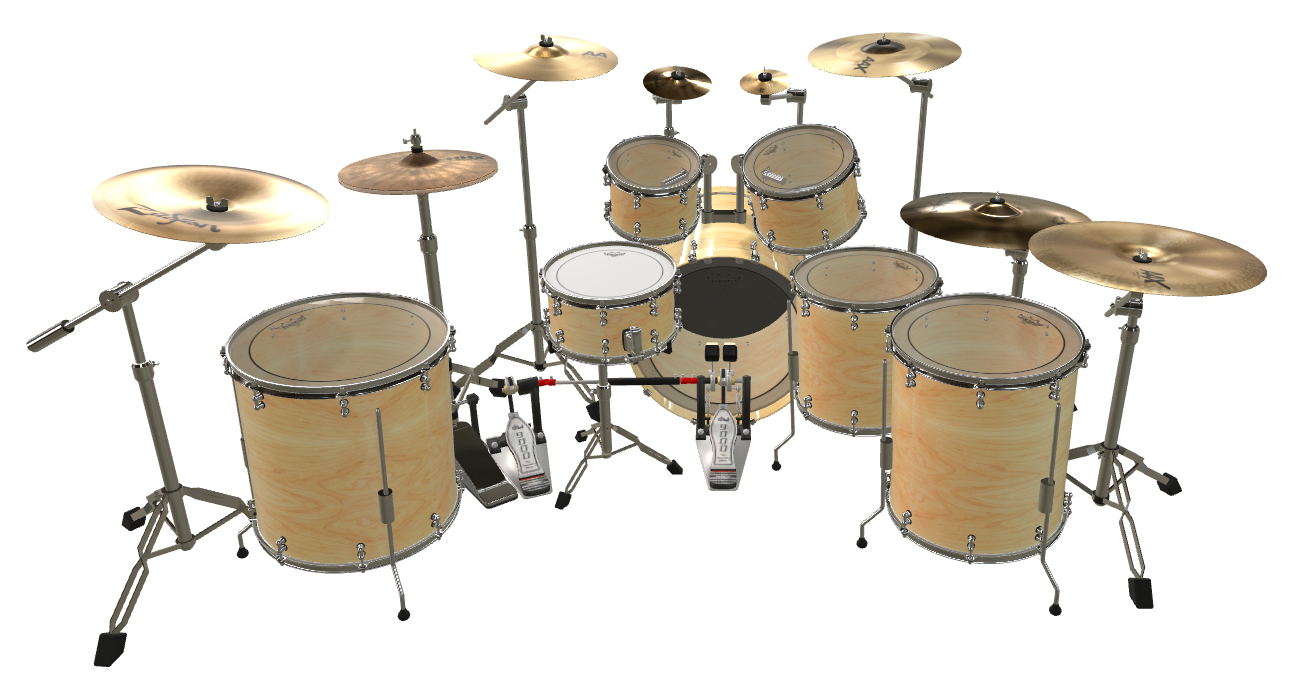
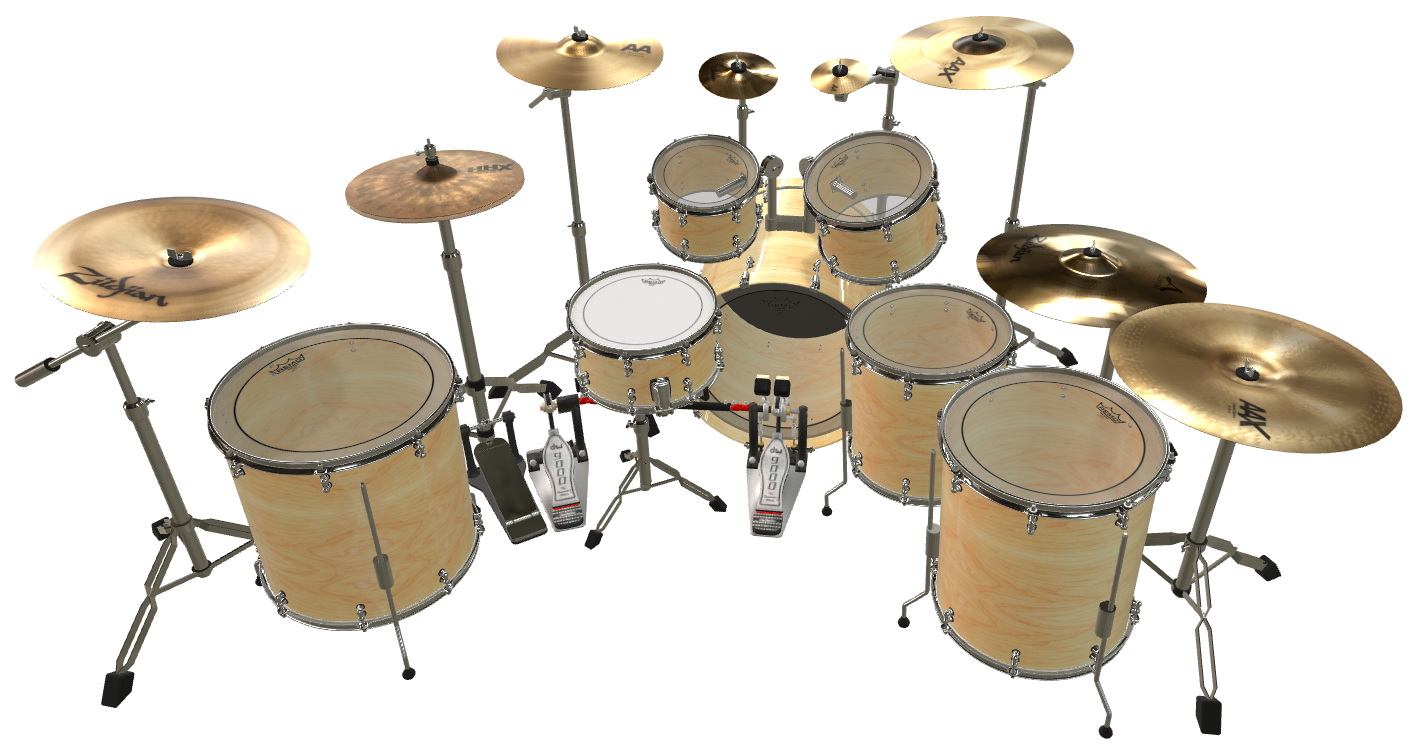
Use the second kit render, zoom it and reposition strike points
Switches to Drum Factory 2 with a thinner blurred outline and a tighter crop, zooms the kit slightly, and moves hit dots to natural stick/beater contact points. Whole-drum click regions cover the shells. Approximate disabled-piece dimming is removed until per-piece masks can cut the exact outline.

diff --git a/src/ui/DrumKitView.cpp b/src/ui/DrumKitView.cpp
@@ -62,26 +62,26 @@ juce::Image makeGlowImage(const juce::Image &src, juce::Colour glowColour = juce
 }
 const std::array<juce::Rectangle<float>, static_cast<size_t>(KitPiece::count)> &singleImageRegions()
 {
-    // Normalised clickable surfaces on the Drum Factory master image. The
-    // order matches KitPiece: kick, snare, tom1, tom2, floorTom, hihat, ride,
-    // crash1, crash2, tom3..5, splash1/2, china1/2.
+    // Normalised whole-drum clickable regions on the Drum Factory master image.
+    // Order: kick, snare, tom1, tom2, floorTom, hihat, ride, crash1, crash2,
+    // tom3..5, splash1/2, china1/2.
     static const std::array<juce::Rectangle<float>, static_cast<size_t>(KitPiece::count)> regions {{
-        juce::Rectangle<float>(0.515f, 0.360f, 0.100f, 0.135f), // kick head
-        juce::Rectangle<float>(0.412f, 0.350f, 0.100f, 0.130f), // snare head
-        juce::Rectangle<float>(0.469f, 0.225f, 0.077f, 0.088f), // tom 1 head
-        juce::Rectangle<float>(0.573f, 0.205f, 0.096f, 0.100f), // tom 2 head
-        juce::Rectangle<float>(0.715f, 0.405f, 0.131f, 0.120f), // legacy floor tom = tom 4
-        juce::Rectangle<float>(0.262f, 0.207f, 0.119f, 0.079f), // hi-hat
-        juce::Rectangle<float>(0.685f, 0.236f, 0.146f, 0.107f), // ride (dark cymbal)
-        juce::Rectangle<float>(0.362f, 0.043f, 0.112f, 0.071f), // crash 1
-        juce::Rectangle<float>(0.619f, 0.050f, 0.119f, 0.071f), // crash 2
-        juce::Rectangle<float>(0.615f, 0.365f, 0.112f, 0.112f), // tom 3 head
-        juce::Rectangle<float>(0.715f, 0.405f, 0.131f, 0.120f), // tom 4 head
-        juce::Rectangle<float>(0.173f, 0.380f, 0.185f, 0.145f), // tom 5 head (left)
-        juce::Rectangle<float>(0.500f, 0.086f, 0.054f, 0.071f), // splash 1
-        juce::Rectangle<float>(0.573f, 0.086f, 0.042f, 0.071f), // splash 2
-        juce::Rectangle<float>(0.069f, 0.171f, 0.185f, 0.157f), // china 1 (left of tom 5)
-        juce::Rectangle<float>(0.792f, 0.293f, 0.185f, 0.136f), // china 2 (right of ride)
+        juce::Rectangle<float>(0.490f, 0.330f, 0.120f, 0.340f), // kick
+        juce::Rectangle<float>(0.394f, 0.333f, 0.110f, 0.240f), // snare
+        juce::Rectangle<float>(0.458f, 0.180f, 0.081f, 0.160f), // tom 1
+        juce::Rectangle<float>(0.563f, 0.173f, 0.099f, 0.180f), // tom 2
+        juce::Rectangle<float>(0.665f, 0.480f, 0.159f, 0.340f), // legacy floor tom = tom 4
+        juce::Rectangle<float>(0.243f, 0.200f, 0.123f, 0.100f), // hi-hat
+        juce::Rectangle<float>(0.683f, 0.307f, 0.127f, 0.120f), // ride
+        juce::Rectangle<float>(0.349f, 0.040f, 0.120f, 0.087f), // crash 1
+        juce::Rectangle<float>(0.634f, 0.047f, 0.120f, 0.093f), // crash 2
+        juce::Rectangle<float>(0.592f, 0.380f, 0.127f, 0.360f), // tom 3
+        juce::Rectangle<float>(0.665f, 0.480f, 0.159f, 0.340f), // tom 4
+        juce::Rectangle<float>(0.144f, 0.433f, 0.183f, 0.380f), // tom 5
+        juce::Rectangle<float>(0.493f, 0.073f, 0.046f, 0.060f), // splash 1
+        juce::Rectangle<float>(0.567f, 0.073f, 0.046f, 0.060f), // splash 2
+        juce::Rectangle<float>(0.028f, 0.273f, 0.194f, 0.153f), // china 1 (left)
+        juce::Rectangle<float>(0.782f, 0.400f, 0.204f, 0.167f), // china 2 (right)
     }};
 
     return regions;
@@ -89,24 +89,23 @@ const std::array<juce::Rectangle<float>, static_cast<size_t>(KitPiece::count)> &
 
 const std::array<juce::Rectangle<float>, static_cast<size_t>(KitPiece::count)> &singleImageBodies()
 {
-    // Full visible body used for the disabled-piece dim overlay.
     static const std::array<juce::Rectangle<float>, static_cast<size_t>(KitPiece::count)> bodies {{
-        juce::Rectangle<float>(0.505f, 0.340f, 0.135f, 0.300f), // kick
-        juce::Rectangle<float>(0.410f, 0.345f, 0.105f, 0.220f), // snare
-        juce::Rectangle<float>(0.469f, 0.225f, 0.077f, 0.200f), // tom 1
-        juce::Rectangle<float>(0.573f, 0.205f, 0.096f, 0.200f), // tom 2
-        juce::Rectangle<float>(0.715f, 0.405f, 0.131f, 0.405f), // floor tom = tom 4
-        juce::Rectangle<float>(0.262f, 0.207f, 0.119f, 0.079f), // hi-hat
-        juce::Rectangle<float>(0.685f, 0.236f, 0.146f, 0.107f), // ride
-        juce::Rectangle<float>(0.362f, 0.043f, 0.112f, 0.071f), // crash 1
-        juce::Rectangle<float>(0.619f, 0.050f, 0.119f, 0.071f), // crash 2
-        juce::Rectangle<float>(0.615f, 0.365f, 0.112f, 0.355f), // tom 3
-        juce::Rectangle<float>(0.715f, 0.405f, 0.131f, 0.405f), // tom 4
-        juce::Rectangle<float>(0.173f, 0.380f, 0.185f, 0.470f), // tom 5
-        juce::Rectangle<float>(0.500f, 0.086f, 0.054f, 0.071f), // splash 1
-        juce::Rectangle<float>(0.573f, 0.086f, 0.042f, 0.071f), // splash 2
-        juce::Rectangle<float>(0.069f, 0.171f, 0.185f, 0.157f), // china 1
-        juce::Rectangle<float>(0.792f, 0.293f, 0.185f, 0.136f), // china 2
+        juce::Rectangle<float>(0.490f, 0.330f, 0.120f, 0.340f), // kick
+        juce::Rectangle<float>(0.394f, 0.333f, 0.110f, 0.240f), // snare
+        juce::Rectangle<float>(0.458f, 0.180f, 0.081f, 0.160f), // tom 1
+        juce::Rectangle<float>(0.563f, 0.173f, 0.099f, 0.180f), // tom 2
+        juce::Rectangle<float>(0.665f, 0.480f, 0.159f, 0.340f), // floor tom = tom 4
+        juce::Rectangle<float>(0.243f, 0.200f, 0.123f, 0.100f), // hi-hat
+        juce::Rectangle<float>(0.683f, 0.307f, 0.127f, 0.120f), // ride
+        juce::Rectangle<float>(0.349f, 0.040f, 0.120f, 0.087f), // crash 1
+        juce::Rectangle<float>(0.634f, 0.047f, 0.120f, 0.093f), // crash 2
+        juce::Rectangle<float>(0.592f, 0.380f, 0.127f, 0.360f), // tom 3
+        juce::Rectangle<float>(0.665f, 0.480f, 0.159f, 0.340f), // tom 4
+        juce::Rectangle<float>(0.144f, 0.433f, 0.183f, 0.380f), // tom 5
+        juce::Rectangle<float>(0.493f, 0.073f, 0.046f, 0.060f), // splash 1
+        juce::Rectangle<float>(0.567f, 0.073f, 0.046f, 0.060f), // splash 2
+        juce::Rectangle<float>(0.028f, 0.273f, 0.194f, 0.153f), // china 1
+        juce::Rectangle<float>(0.782f, 0.400f, 0.204f, 0.167f), // china 2
     }};
 
     return bodies;
@@ -114,23 +113,48 @@ const std::array<juce::Rectangle<float>, static_cast<size_t>(KitPiece::count)> &
 
 const std::array<juce::Point<float>, static_cast<size_t>(KitPiece::count)> &singleImageHitPoints()
 {
+    // Natural striking points: stick/beater contact, not geometric centres.
     static const std::array<juce::Point<float>, static_cast<size_t>(KitPiece::count)> points {{
-        juce::Point<float>(0.565f, 0.445f), // kick
-        juce::Point<float>(0.462f, 0.430f), // snare
-        juce::Point<float>(0.508f, 0.285f), // tom 1
-        juce::Point<float>(0.621f, 0.270f), // tom 2
-        juce::Point<float>(0.781f, 0.480f), // floor tom = tom 4
-        juce::Point<float>(0.321f, 0.246f), // hi-hat
-        juce::Point<float>(0.758f, 0.289f), // ride
-        juce::Point<float>(0.417f, 0.079f), // crash 1
-        juce::Point<float>(0.678f, 0.086f), // crash 2
-        juce::Point<float>(0.671f, 0.435f), // tom 3
-        juce::Point<float>(0.781f, 0.480f), // tom 4
-        juce::Point<float>(0.265f, 0.465f), // tom 5
-        juce::Point<float>(0.527f, 0.121f), // splash 1
-        juce::Point<float>(0.594f, 0.121f), // splash 2
-        juce::Point<float>(0.162f, 0.250f), // china 1
-        juce::Point<float>(0.885f, 0.360f), // china 2
+        juce::Point<float>(0.546f, 0.427f), // kick beater
+        juce::Point<float>(0.451f, 0.407f), // snare centre
+        juce::Point<float>(0.496f, 0.240f), // tom 1
+        juce::Point<float>(0.611f, 0.240f), // tom 2
+        juce::Point<float>(0.743f, 0.573f), // floor tom = tom 4
+        juce::Point<float>(0.324f, 0.260f), // hi-hat bow
+        juce::Point<float>(0.761f, 0.387f), // ride bow
+        juce::Point<float>(0.430f, 0.093f), // crash 1 bow
+        juce::Point<float>(0.711f, 0.100f), // crash 2 bow
+        juce::Point<float>(0.655f, 0.440f), // tom 3
+        juce::Point<float>(0.743f, 0.573f), // tom 4
+        juce::Point<float>(0.236f, 0.513f), // tom 5
+        juce::Point<float>(0.523f, 0.109f), // splash 1 bow
+        juce::Point<float>(0.596f, 0.109f), // splash 2 bow
+        juce::Point<float>(0.148f, 0.373f), // china 1 bow
+        juce::Point<float>(0.880f, 0.500f), // china 2 bow
+    }};
+
+    return points;
+}
+
+const std::array<juce::Point<float>, static_cast<size_t>(KitPiece::count)> &singleImageShellAnchors()
+{
+    static const std::array<juce::Point<float>, static_cast<size_t>(KitPiece::count)> points {{
+        juce::Point<float>(0.615f, 0.550f), // kick
+        juce::Point<float>(0.505f, 0.500f), // snare
+        juce::Point<float>(0.535f, 0.200f), // tom 1
+        juce::Point<float>(0.655f, 0.190f), // tom 2
+        juce::Point<float>(0.820f, 0.520f), // floor tom = tom 4
+        juce::Point<float>(0.324f, 0.260f), // hihat (unused)
+        juce::Point<float>(0.761f, 0.387f), // ride (unused)
+        juce::Point<float>(0.430f, 0.093f), // crash 1 (unused)
+        juce::Point<float>(0.711f, 0.100f), // crash 2 (unused)
+        juce::Point<float>(0.715f, 0.450f), // tom 3
+        juce::Point<float>(0.820f, 0.520f), // tom 4
+        juce::Point<float>(0.322f, 0.480f), // tom 5
+        juce::Point<float>(0.523f, 0.109f), // splash 1 (unused)
+        juce::Point<float>(0.596f, 0.109f), // splash 2 (unused)
+        juce::Point<float>(0.148f, 0.373f), // china 1 (unused)
+        juce::Point<float>(0.880f, 0.500f), // china 2 (unused)
     }};
 
     return points;
@@ -783,8 +807,10 @@ void DrumKitView::setAllPiecesEnabled(bool enabled)
 
 void DrumKitView::drawSingleImageDimming(juce::Graphics &g) const
 {
-    if (!useSingleKitImage || !singleKitScaled.isValid())
-        return;
+    // Disabled pieces stay fully visible until per-piece masks are available.
+    // A rectangular/polygon dim looked worse than no dim at all.
+    (void) g;
+    return;
 
     const auto &bodies = singleImageBodies();
     for (size_t i = 0; i < static_cast<size_t>(KitPiece::count); ++i)
@@ -852,6 +878,22 @@ juce::Rectangle<float> DrumKitView::boundsForClassicPiece(KitPiece piece) const 
     if (piece == KitPiece::count)
         return {};
     return pieces[static_cast<size_t>(piece)].bounds;
+}
+
+juce::Point<float> DrumKitView::shellAnchor(KitPiece piece) const noexcept
+{
+    if (piece == KitPiece::count)
+        return {};
+
+    if (useSingleKitImage && singleKitScaled.isValid())
+    {
+        const auto p = singleImageShellAnchors()[static_cast<size_t>(piece)];
+        return {singleKitBounds.getX() + p.x * singleKitBounds.getWidth(),
+                singleKitBounds.getY() + p.y * singleKitBounds.getHeight()};
+    }
+
+    const auto b = pieces[static_cast<size_t>(piece)].bounds;
+    return {b.getRight() - 12.0f, b.getY() + 12.0f};
 }
 
 juce::Rectangle<int> DrumKitView::dirtyBoundsForPiece(KitPiece piece) const noexcept
@@ -1736,7 +1778,8 @@ void DrumKitView::layoutSingleKit(float W, float H)
         return;
 
     const float margin = 8.0f;
-    const float scale = std::min((W - margin * 2.0f) / imageW, (H - margin * 2.0f) / imageH);
+    const float zoom = 1.05f;
+    const float scale = std::min((W - margin * 2.0f) / imageW, (H - margin * 2.0f) / imageH) * zoom;
     const float drawW = imageW * scale;
     const float drawH = imageH * scale;
     singleKitBounds = juce::Rectangle<float>((W - drawW) * 0.5f, (H - drawH) * 0.5f, drawW, drawH);

diff --git a/src/ui/Editor.cpp b/src/ui/Editor.cpp
@@ -1905,11 +1905,11 @@ void Editor::updateShellSlotButtons()
         }
         else if (fallback != KitPiece::count)
         {
-            const auto bounds = kitView.boundsForClassicPiece(fallback);
-            if (!bounds.isEmpty())
+            const auto anchor = kitView.shellAnchor(fallback);
+            if (anchor.x > 0.0f || anchor.y > 0.0f)
             {
-                holder->localBounds = { bounds.getRight() - 20.0f,
-                                        bounds.getY() + 4.0f + static_cast<float>(duplicateIndex) * 21.0f,
+                holder->localBounds = { anchor.x - 9.0f,
+                                        anchor.y - 9.0f + static_cast<float>(duplicateIndex) * 21.0f,
                                         18.0f,
                                         18.0f };
                 holder->hasBounds = true;

diff --git a/src/ui/DrumKitView.h b/src/ui/DrumKitView.h
@@ -91,6 +91,9 @@ class DrumKitView
     /// kit is drawn as a single composite image.
     juce::Rectangle<float> boundsForClassicPiece(KitPiece piece) const noexcept;
 
+    /// Fixed shell chevron anchor in this view's coordinates.
+    juce::Point<float> shellAnchor(KitPiece piece) const noexcept;
+
     void paint(juce::Graphics &) override;
     void resized() override;
     void timerCallback() override;

diff --git a/docs/KIT_ART_LAYOUT.md b/docs/KIT_ART_LAYOUT.md
@@ -7,7 +7,7 @@ disabled pieces stay in place and are dimmed.
 
 ## Canvas
 
-- Source image: 1576 × 897 RGBA, cropped to 1300 × 700 for the plugin asset.
+- Source image: 1576 × 897 RGBA, cropped to 1420 × 750 for the plugin asset.
 - White outline baked around the alpha silhouette.
 - Coordinates below are normalised to the 1300 × 700 crop.
 - The UI draws labels, hit dots and dropdown chevrons; they are not in the art.
@@ -38,8 +38,8 @@ disabled pieces stay in place and are dimmed.
 
 - Each piece has a normalised click ellipse (head or cymbal surface).
 - Each shell has a larger body rectangle used only for the disabled dim.
-- Dimming clips a black copy of the whole kit silhouette to a tapered shell
-  outline or a cymbal ellipse, so only that drum/cymbal is dimmed.
+- Disabled pieces are currently left fully visible. Exact dimming needs
+  per-piece masks; the earlier approximate overlays were removed.
 - Whole drum bodies are clickable, not just the heads.
 - Hit dots sit at the centre of the playing surface.
 - Shell chevrons sit at the top-right of the piece region.
